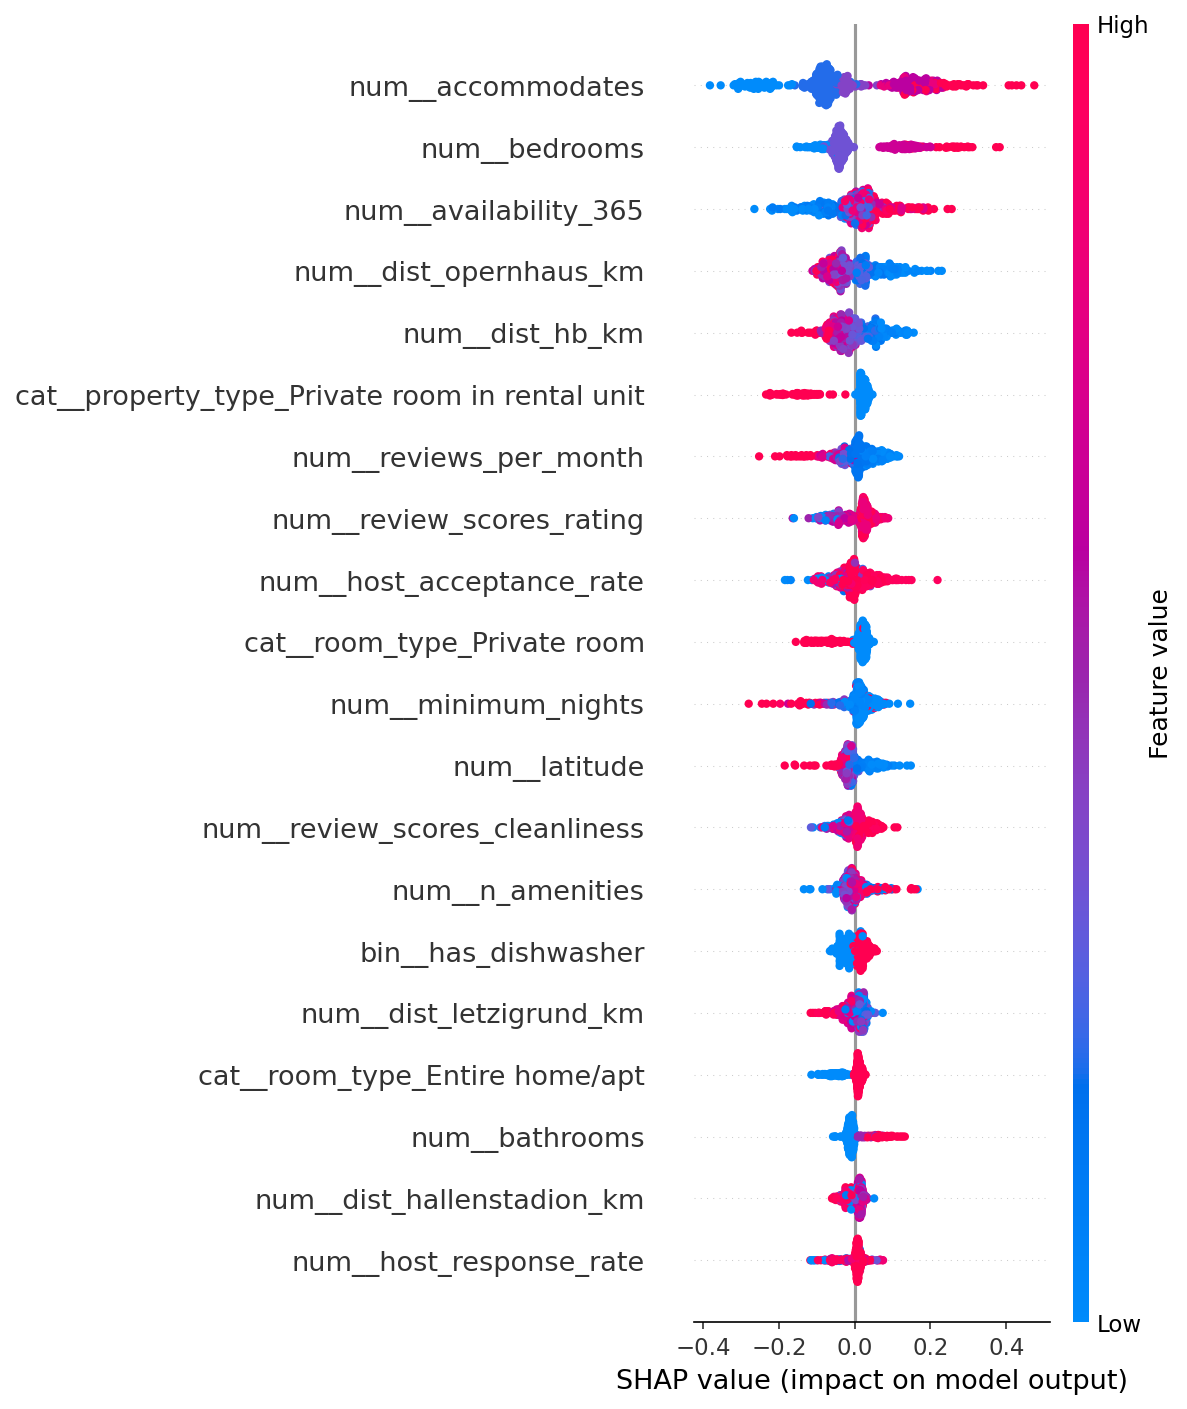
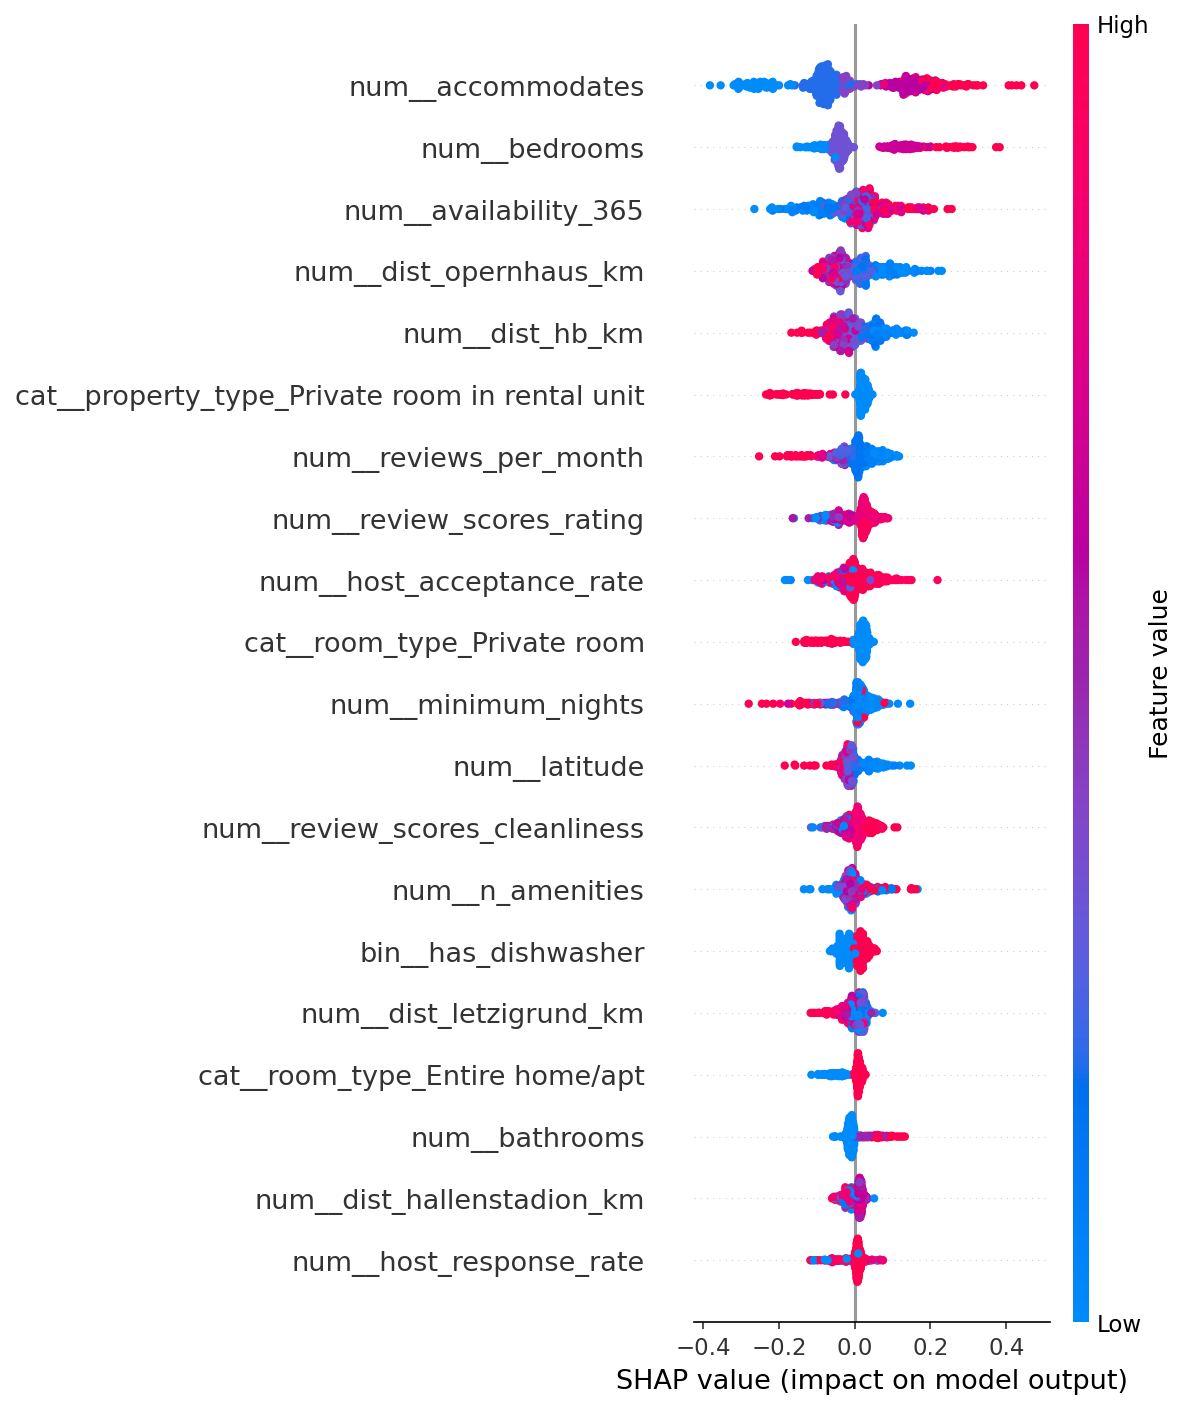
docs: document OSM feature experiments that didn't improve metrics
Tried two rounds of OSM-derived features and reverted both because
neither improved held-out R²:

1. dist_nearest_transit_km + n_supermarkets_500m
   - Transit network in Zurich is uniformly dense (median 112m to
     nearest stop), so distance has no discriminative power.
   - Supermarket density correlates with dist_hb_km, redundant.
   - SHAP rank #26 / #30, CV-R² 0.635 -> 0.626.

2. dist_lake_km + dist_river_km
   - Real signal (SHAP rank #12 / #13) but SHAP just redistributed
     importance from dist_opernhaus_km and dist_hb_km.
   - Held-out R² changed by -0.008 (within noise).

Reverted: nb03 OSM cells, scripts/fetch_osm.py, data/raw/zurich_osm_*.csv,
.gitignore whitelist entries. Pipeline back to the Feature-1 baseline
(MAE 38.80 CHF, RMSE 67.02 CHF, R² 0.530).

README now documents both attempts in a new "Experiments that didn't
pay off" section for academic transparency.

diff --git a/README.md b/README.md
@@ -94,6 +94,15 @@ Compared to the previous run without host/review/property_type features, the mod
 
 See `reports/figures/shap_summary.png` for the beeswarm (direction + magnitude per sample) and `shap_bar.png` for the mean-impact ranking.
 
+## Experiments that didn't pay off
+
+For transparency, a few feature ideas we tried but reverted because they did not improve held-out R²:
+
+- **OSM transit stops + supermarkets in 500 m radius.** `dist_nearest_transit_km` and `n_supermarkets_500m` fetched from OpenStreetMap via the Overpass API. Zurich's transit network is so dense that almost every listing sits within ~150 m of a stop (median 112 m, max 711 m), so the distance has no discriminative power. Supermarket density correlated with `dist_hb_km` (city centre), so the model already had that signal. Both features landed at SHAP rank #26 / #30 and CV-R² dropped slightly (0.635 → 0.626).
+- **Distance to Zürichsee shore + Limmat river.** Same OSM source. These features *do* carry signal (SHAP rank #12 / #13), but SHAP simply redistributed importance from the existing `dist_opernhaus_km` and `dist_hb_km` features — held-out R² changed by −0.008 (within noise). Lake/river proximity is already implicitly captured by the central-Zurich venue distances.
+
+Conclusion: when several distance features overlap geographically, adding more of them does not stack; the model just spreads the same signal across more columns. External data only helps when it captures something genuinely orthogonal to what is already in the feature set.
+
 ## Output
 - Trained model:  models/rent_pipeline.pkl
 - Figures:        reports/figures/